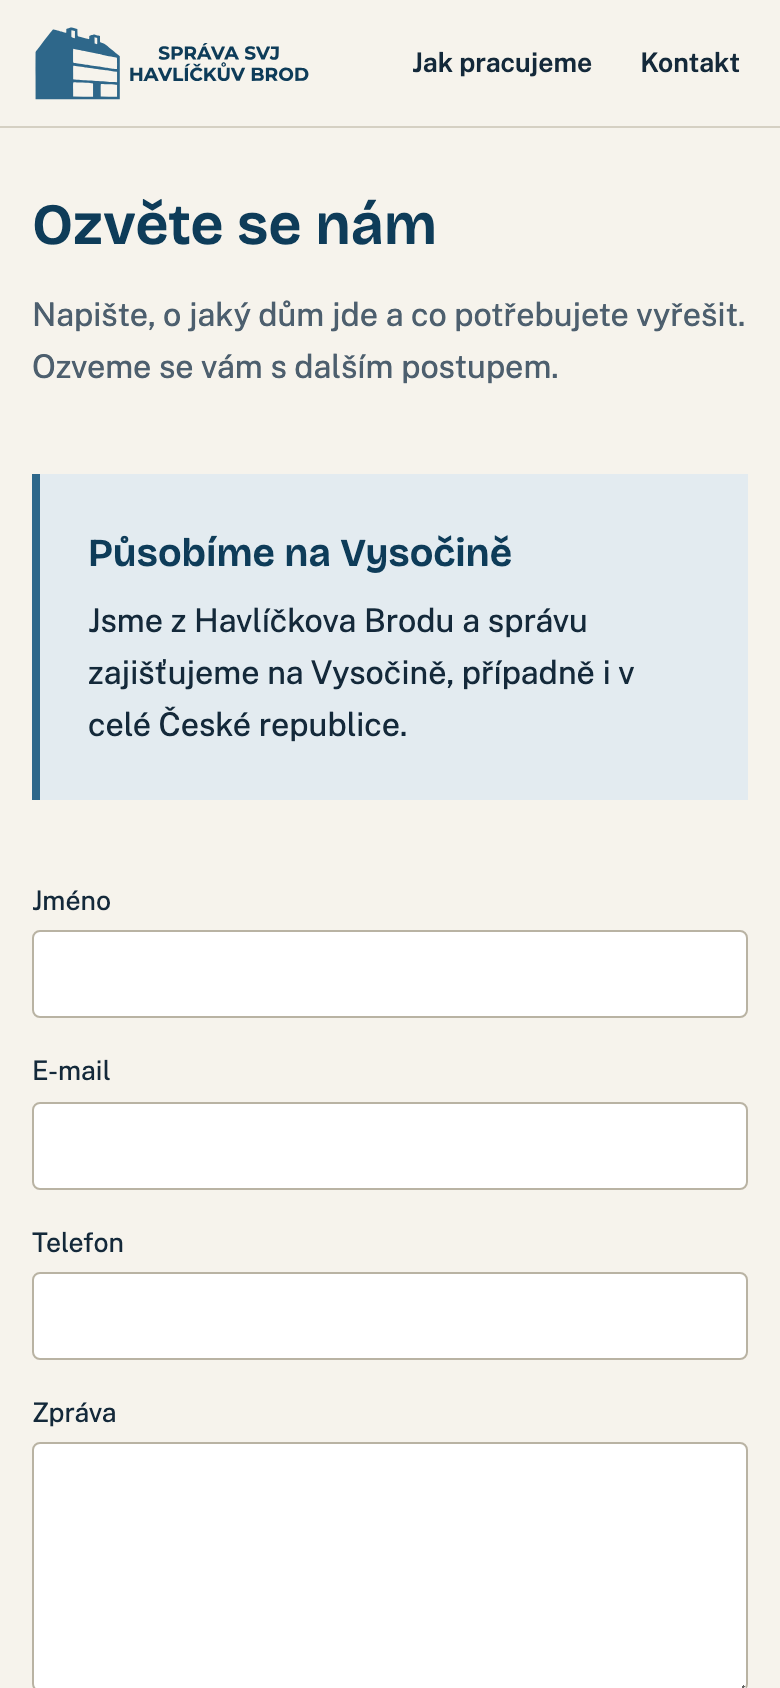
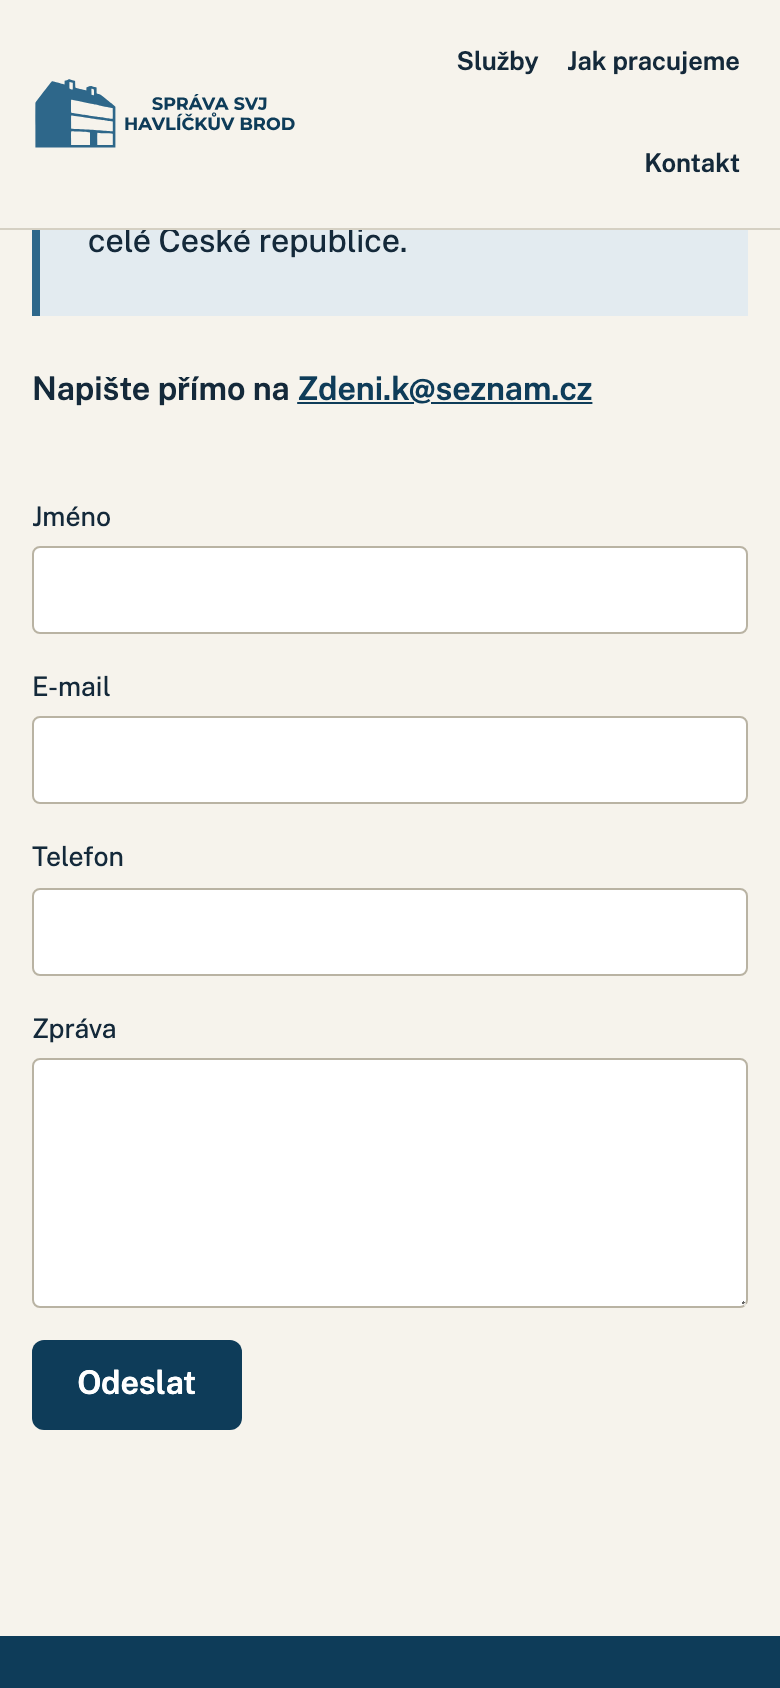
Aktualizace webu 2026-10-21 22:20

diff --git a/static/css/style.css b/static/css/style.css
@@ -219,3 +219,7 @@ a { color: inherit; }
 .kontakt-mail { margin-top: var(--space-3); font-weight: 600; }
 .kontakt-mail a { color: var(--navy); }
 @media (max-width: 40rem) { .hlavicka nav a:first-child { display: inline-flex; } .hlavicka nav { gap: 0.4rem; } .hlavicka nav a { font-size: 0.8rem; } .fasada { max-width: 11rem; } .hero h1 { font-size: var(--step-4); } }
+.formular-pozn { font-size: var(--step--1); color: var(--muted); }
+.sekce.pece { padding-bottom: var(--space-5); }
+.sekce.kontakt { padding-top: var(--space-5); }
+@media (max-width: 40rem) { .hlavicka .wrap { gap: 0.5rem; } .hlavicka nav { flex-wrap: nowrap; gap: 0.1rem; } .hlavicka nav a { padding-inline: 0.35rem; } .logo img { height: 34px; } }

diff --git a/src/_formular.html b/src/_formular.html
@@ -7,5 +7,6 @@
   <div class="past" aria-hidden="true"><label>Nevyplňovat <input name="_gotcha" tabindex="-1" autocomplete="off"></label></div>
   <input type="hidden" name="_subject" value="{{ site.formular.predmet }}">
   <button type="submit">Odeslat</button>
+  <p class="formular-pozn">Ukázka: formulář zprovozníme po spuštění webu, zatím pište na e-mail výše.</p>
   <p class="formular-stav" role="status" aria-live="polite"></p>
 </form>
